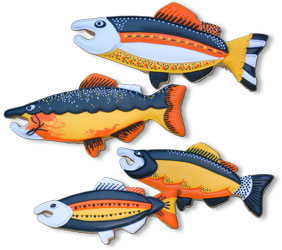
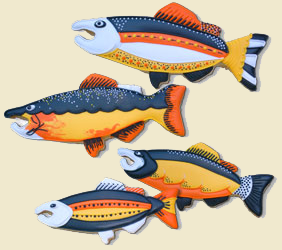
Improved CSS styling

diff --git a/style.css b/style.css
@@ -1,6 +1,12 @@
 body {
 	font-family: 'Lato', sans-serif;
 	background-color: #f0e9ce;
+  background: url("img/wave-background.png");
+  background-size: 100%;
+}
+
+a:link {
+  text-decoration: none;
 }
 
 h1 {
@@ -43,38 +49,48 @@ img {
     height: auto;
 }
 
-header {
-  background-color: #f3f2f1;
-  border: 1px solid #000000;
+header img {
+  margin-bottom: 10px;
 }
 
 .wrapper {
   width: 940px;
   margin: 20px auto 20px auto;
+  background-color: #f0e9ce;
 }
 
 /*Navigation menu*/
 
-nav ol {
+header nav ol {
   margin: 0px;
-  padding: 5px 0px 15px 30px;
-  background-color: #f4f1e7;
+  padding: 15px 0px 15px 30px;
+  background-color: #c4bb98;
   border-style: solid;
-  border-color: #000000;
+  border-color: #fff;
   border-top-width: 1px;
   border-right-style: none;
   border-bottom-style: none;
   border-left-style: none;
+  list-style-type: none;
 }
 
-nav li {
+header nav li {
   display: inline;
   margin-right: 40px;
   border-color: #266fa1 #266fa1 #000 #266fa1;
-  background-color: #f4f1e7;
+  background-color: #c4bb98;
   letter-spacing: 0.07em;
   text-align: center;
-  style
+  color: #fff;
+}
+
+header nav li a {
+  color: #b75835;
+  font-weight: bold;
+}
+
+header nav li a:hover {
+  color: #000000;
 }
 
 /*Main section*/
@@ -168,6 +184,10 @@ th {
 
 /*Form style*/
 
+fieldset {
+  width: 50%;
+}
+
 form {
   padding: 20px;
   border: 2px solid #fff;
@@ -190,4 +210,45 @@ input#storeloc {
 }
 button {
   margin: 10px;
+}
+
+/*Footer*/
+
+#rightsreserved {
+  text-align: bottom-right;
+}
+
+iframe {
+  margin: 15px;
+  width: 40%;
+}
+
+footer {
+  background-color: #b75835;
+}
+
+footer aside {
+  float: right;
+  width: 30%;
+}
+
+footer nav li {
+  margin: 10px;
+  padding: none;
+  display: inherit;
+  list-style-type: none;
+}
+
+footer p {
+  text-align: center;
+  color: #fff;
+}
+
+footer nav li a {
+  color: #fff;
+  font-weight: bold;
+}
+
+footer nav li a:hover {
+  color: #000000;
 }

diff --git a/index.html b/index.html
@@ -9,7 +9,7 @@
 <body>
 	<div class="wrapper">
 		<header>
-			<h1> Pat's Amazing Salmon Cookies</h1>
+				<img src="img/salmon-banner.png"/>
 			<nav>
 				<ol>
 					<li><a href="">Home</a></li>
@@ -20,12 +20,6 @@
 				</ol>
 			</nav>
 		</header>
-			<div class="full-width">
-	        <img src="img/salmon-logo.png"/>
-	        <img src="img/salmon-logo.png"/>
-	        <img src="img/salmon-logo.png"/>
-	        <img src="img/salmon-logo.png"/>
-	    </div>
 		<section class="main">
 			<article>
 					<h3>Hi there! Come try our savory Salmon cookies today at one of our many locations:</h3>
@@ -55,10 +49,22 @@
 					<img id="tshirt" src="img/salmon-shirt.jpg"/>
 			</article>
 		</section>
-		<section>
-			<iframe src="https://www.google.com/maps/embed?pb=!1m18!1m12!1m3!1d2689.1315905238653!2d-122.33825748436887!3d47.623573279185784!2m3!1f0!2f0!3f0!3m2!1i1024!2i768!4f13.1!3m3!1m2!1s0x5490153758c88a61%3A0xe3d3fd29c55db518!2sCode+Fellows!5e0!3m2!1sen!2sus!4v1444359743606" width="400" height="350" frameborder="0" style="border:0" allowfullscreen></iframe>
-		</section>
+
   </div>
+  		<footer>
+			<iframe src="https://www.google.com/maps/embed?pb=!1m18!1m12!1m3!1d2689.1315905238653!2d-122.33825748436887!3d47.623573279185784!2m3!1f0!2f0!3f0!3m2!1i1024!2i768!4f13.1!3m3!1m2!1s0x5490153758c88a61%3A0xe3d3fd29c55db518!2sCode+Fellows!5e0!3m2!1sen!2sus!4v1444359743606" width="400" height="350" frameborder="0" style="border:0" allowfullscreen></iframe>
+			<aside>
+				<nav>
+				<ul>
+					<li><a href="">Home</a></li>
+					<li><a href="">Product</a></li>
+					<li><a href="sales.html">Locations</a></li>
+					<li><a href="">About</a></li>
+					<li><a href="http://www.salmondays.org/">Salmon Days Festival</a></li>
+				</ul>
+			</aside>
+			<p id="rightsreserved">Jesse Thach Creations &#174;, 2015</p>
+		</footer>
 	<script src="app.js"></script>
 </body>
 

diff --git a/sales.html b/sales.html
@@ -10,7 +10,7 @@
 
   <img id="salmonimg" src="img/salmon-logo.png" alt="Salmon cookie" width="500">
 
-<h1> Pat's Amazing Salmon Cookies</h1>
+<h1>Locations</h1>
   <div class="wrapper">
     <table id="sales">
       <thead>
@@ -26,13 +26,15 @@
         <th id="total">Total</th>
       </thead>
     </table>
-    <form id="salesform">Enter New Store Location
-      <label for="storeLocLabel">Location name:<br></label><input id="storeloc" type="text" size="15" maxlength="30" /><br>
-      <label for="minCustLabel">Minimum Customers per Hour:<br></label><input id="mincustomer" type="text" size="15" maxlength="30" /><br>
-      <label for="maxCustLabel">Maximum Customer per Hour:<br></label><input id="maxcustomer" type="text" size="15" maxlength="30" /><br>
-      <label for+"avgCustLabel">Average Customers per Hour:<br></label><input id="avgcustomer" type="text" size="15" maxlength="30" /><br>
-
-      <button id="formbutton" type="click">Submit Store</button>
+    <form id="salesform">
+      <fieldset>
+        <legend>Add Store Location</legend><br>
+        <label for="storeLocLabel">Location name:<br></label><input id="storeloc" type="text" size="15" maxlength="30" /><br>
+        <label for="minCustLabel">Minimum Customers per Hour:<br></label><input id="mincustomer" type="text" size="15" maxlength="30" /><br>
+        <label for="maxCustLabel">Maximum Customer per Hour:<br></label><input id="maxcustomer" type="text" size="15" maxlength="30" /><br>
+        <label for+"avgCustLabel">Average Customers per Hour:<br></label><input id="avgcustomer" type="text" size="15" maxlength="30" /><br>
+        <button id="formbutton" type="click">Submit Store</button>
+      </fieldset>
     </form>
   </div>
   <script src="app.js"></script>

diff --git a/app.js b/app.js
@@ -89,7 +89,7 @@ var handleFormSubmit = function(e) {
    	return alert('Store Location must contain more than 3 characters.');
    }
 
-   else if (minCust.value > maxCust.value) {
+   else if (Number(minCust.value) > Number(maxCust.value)) {
    	return alert('The maximum customer number should be greater than the mininmum customer number.');
    }
 
